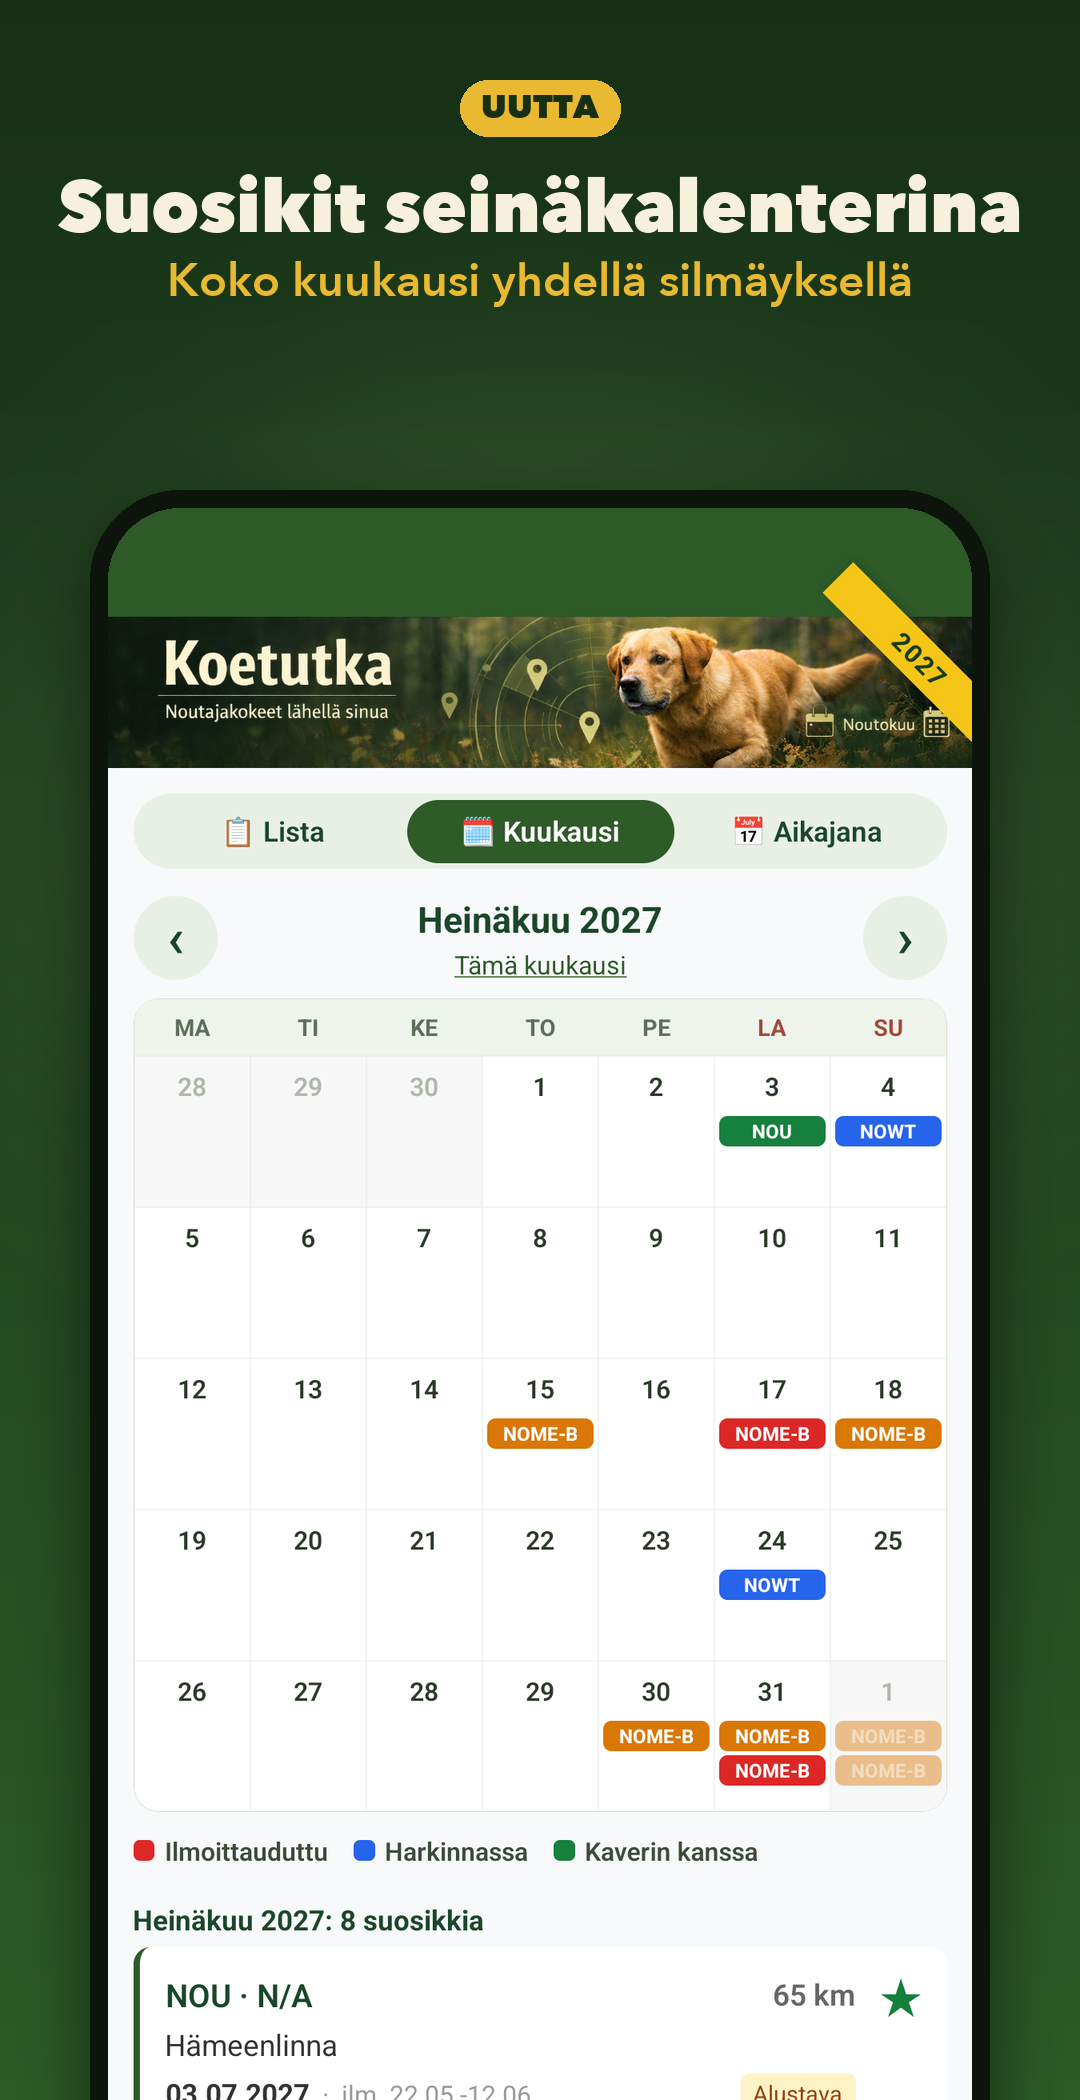
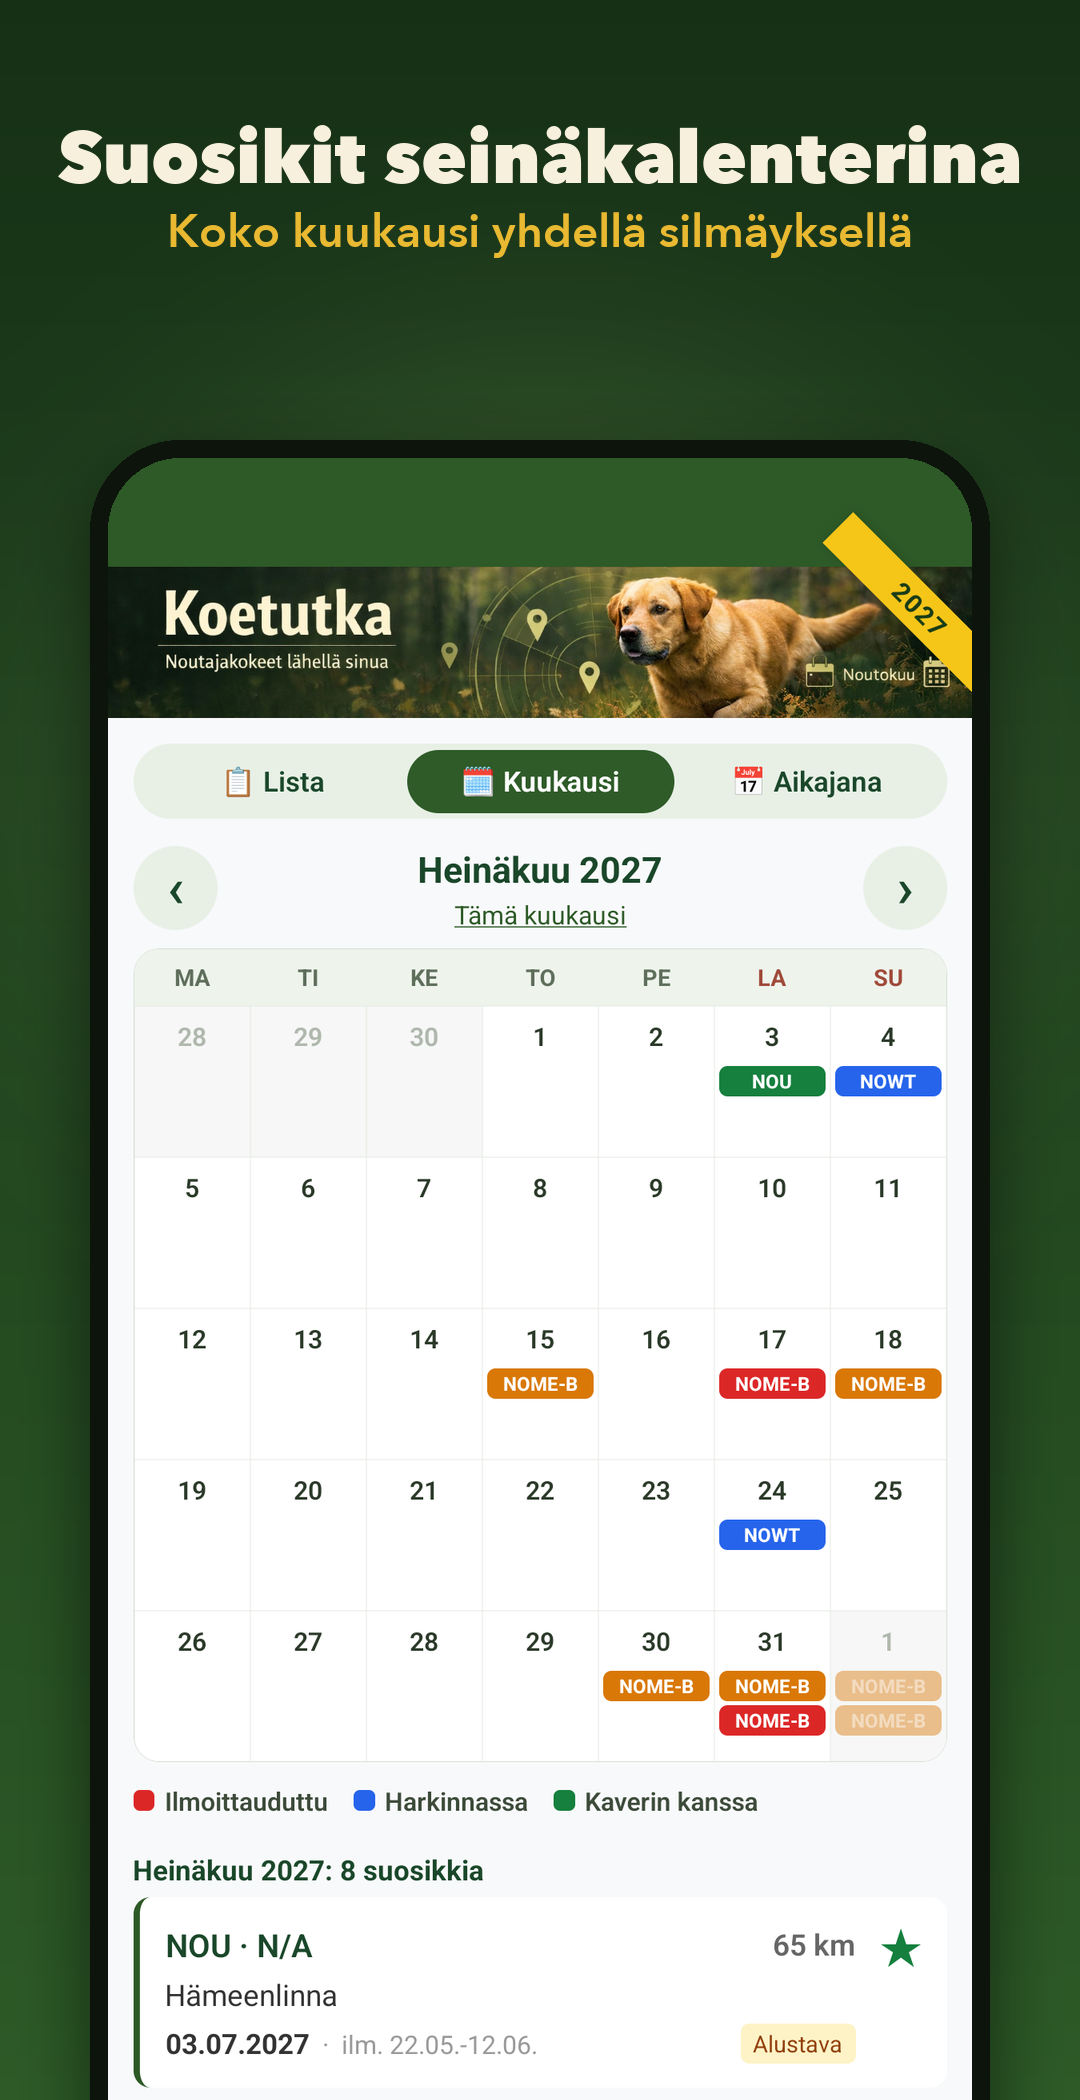
chore(store): tietosuojalause Nominatimista, Play-kuvista pois UUTTA-merkki

diff --git a/mobile/store/make-marketing.py b/mobile/store/make-marketing.py
@@ -113,9 +113,9 @@ def main():
         compose(ROOT / 'screenshots-ios' / f'{name}.png', ROOT / 'marketing' / 'ios' / f'{name}.png',
                 (1320, 2868), title, subtitle, new, phone_w=1140, phone_top=540 if not new else 600,
                 title_y=150 if not new else 110)
+        # Play kieltää kuvissa aikasidonnaiset sanat ("uutta"), joten ei merkkiä.
         compose(ROOT / 'screenshots' / f'{name}.png', ROOT / 'marketing' / 'android' / f'{name}.png',
-                (1080, 2100), title, subtitle, new, phone_w=900, phone_top=440 if not new else 490,
-                title_y=110 if not new else 80)
+                (1080, 2100), title, subtitle, False, phone_w=900, phone_top=440, title_y=110)
 
 
 if __name__ == '__main__':
